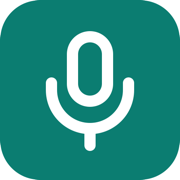
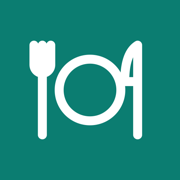
Name the app Aftertaste
A brand row on the home screen (plate-and-cutlery mark and wordmark, Alec
beside it), plus the new name and icon for the tab title and Home Screen.
The PNG icons are square so iOS can round them without black corners.

diff --git a/web/app.js b/web/app.js
@@ -103,6 +103,8 @@ const ICONS = {
   copy: '<rect x="9" y="9" width="13" height="13" rx="2"/><path d="M5 15H4a2 2 0 0 1-2-2V4a2 2 0 0 1 2-2h9a2 2 0 0 1 2 2v1"/>',
   external: '<path d="M18 13v6a2 2 0 0 1-2 2H5a2 2 0 0 1-2-2V8a2 2 0 0 1 2-2h6"/><path d="M15 3h6v6"/><path d="M10 14L21 3"/>',
   check: '<path d="M20 6L9 17l-5-5"/>',
+  // The Aftertaste mark: a plate between a fork and a knife.
+  logo: '<circle cx="12" cy="12" r="5.5"/><path d="M3.5 4v16M2 4v3.5a1.5 1.5 0 0 0 3 0V4"/><path d="M20.5 20V4c-1.6 1-2.3 3.2-2.3 6.5h2.3"/>',
   plus: '<path d="M12 5v14M5 12h14"/>',
 };
 const icon = (name, cls = "") => `<svg class="i ${cls}" viewBox="0 0 24 24" aria-hidden="true">${ICONS[name]}</svg>`;
@@ -335,11 +337,15 @@ function screenQueue() {
   return `
     <div class="screen">
       <div class="content home">
-        <div class="stack-8">
-          <div class="home-head">
-            <h1 class="display">Your dinners</h1>
-            <button class="avatar-btn" data-act="settings" aria-label="Settings">${avatar(48)}</button>
+        <div class="home-head">
+          <div class="brand">
+            <span class="brand-mark">${icon("logo")}</span>
+            <span class="brand-name">Aftertaste</span>
           </div>
+          <button class="avatar-btn" data-act="settings" aria-label="Settings">${avatar(48)}</button>
+        </div>
+        <div class="stack-8">
+          <h1 class="display">Your dinners</h1>
           <p class="body muted">${esc(summary)}</p>
         </div>
         ${review.length || drafts.length ? `<div class="cards">${reviewCards}${draftCards}</div>` : ""}
@@ -977,7 +983,7 @@ const pushSupported = () => "serviceWorker" in navigator && "PushManager" in win
 
 function pushRow() {
   if (!pushSupported()) {
-    return `<p class="body muted">Add Dinner Notes to your Home Screen (Share, then Add to Home Screen) and open it from there to get a nudge after each reservation.</p>`;
+    return `<p class="body muted">Add Aftertaste to your Home Screen (Share, then Add to Home Screen) and open it from there to get a nudge after each reservation.</p>`;
   }
   if (Notification.permission === "denied") return `<p class="body muted">Notifications are off for this app in Settings.</p>`;
   if (state.settings.pushOn && Notification.permission === "granted") {

diff --git a/web/style.css b/web/style.css
@@ -1,4 +1,4 @@
-/* Dinner Notes. Tokens and component specs come from the design handoff
+/* Aftertaste. Tokens and component specs come from the design handoff
    (design/README.md). Rules worth keeping: no shadows, no gradients, no emoji,
    and at most one solid brand element per screen. */
 
@@ -136,7 +136,15 @@ svg.check { stroke: var(--brand); stroke-width: 2.5; }
 .dots span.now { width: 24px; background: var(--brand); }
 
 /* ---------- queue ---------- */
-.home-head { display: flex; align-items: center; justify-content: space-between; gap: 12px; }
+.home-head { display: flex; align-items: center; justify-content: space-between; gap: 12px; margin-bottom: -8px; }
+.brand { display: flex; align-items: center; gap: 10px; }
+.brand-mark {
+  width: 36px; height: 36px; border-radius: 10px; flex: none;
+  background: var(--brand-tint); color: var(--brand);
+  display: flex; align-items: center; justify-content: center;
+}
+.brand-mark svg { width: 24px; height: 24px; }
+.brand-name { font-size: 20px; line-height: 26px; font-weight: 800; letter-spacing: -0.01em; }
 .cards { display: flex; flex-direction: column; gap: 12px; }
 .card { background: var(--surface-2); border-radius: 20px; padding: 16px; display: flex; flex-direction: column; gap: 16px; }
 .card .info { display: flex; flex-direction: column; gap: 8px; align-items: flex-start; text-align: left; width: 100%; }

diff --git a/web/index.html b/web/index.html
@@ -7,8 +7,8 @@
   <meta name="color-scheme" content="light">
   <meta name="apple-mobile-web-app-capable" content="yes">
   <meta name="apple-mobile-web-app-status-bar-style" content="default">
-  <meta name="apple-mobile-web-app-title" content="Dinner Notes">
-  <title>Dinner Notes</title>
+  <meta name="apple-mobile-web-app-title" content="Aftertaste">
+  <title>Aftertaste</title>
   <link rel="manifest" href="./manifest.webmanifest">
   <link rel="icon" href="./icon.svg" type="image/svg+xml">
   <link rel="apple-touch-icon" href="./icon-180.png">

diff --git a/README.md b/README.md
@@ -1,4 +1,4 @@
-# Dinner Notes
+# Aftertaste
 
 A few taps after dinner, a review in her voice to paste into Beli.
 
